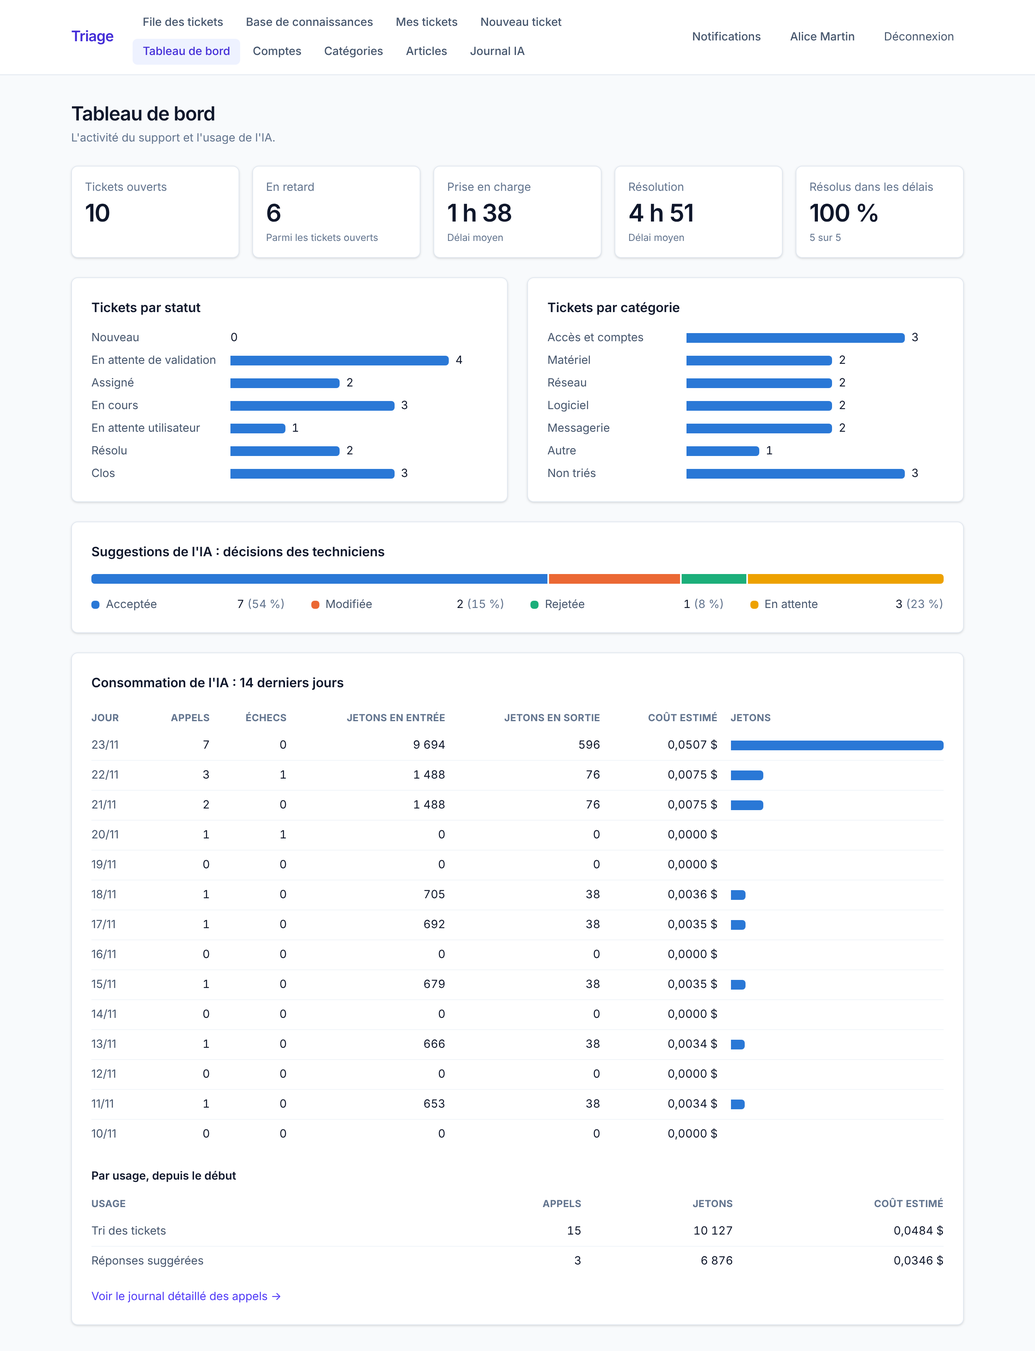
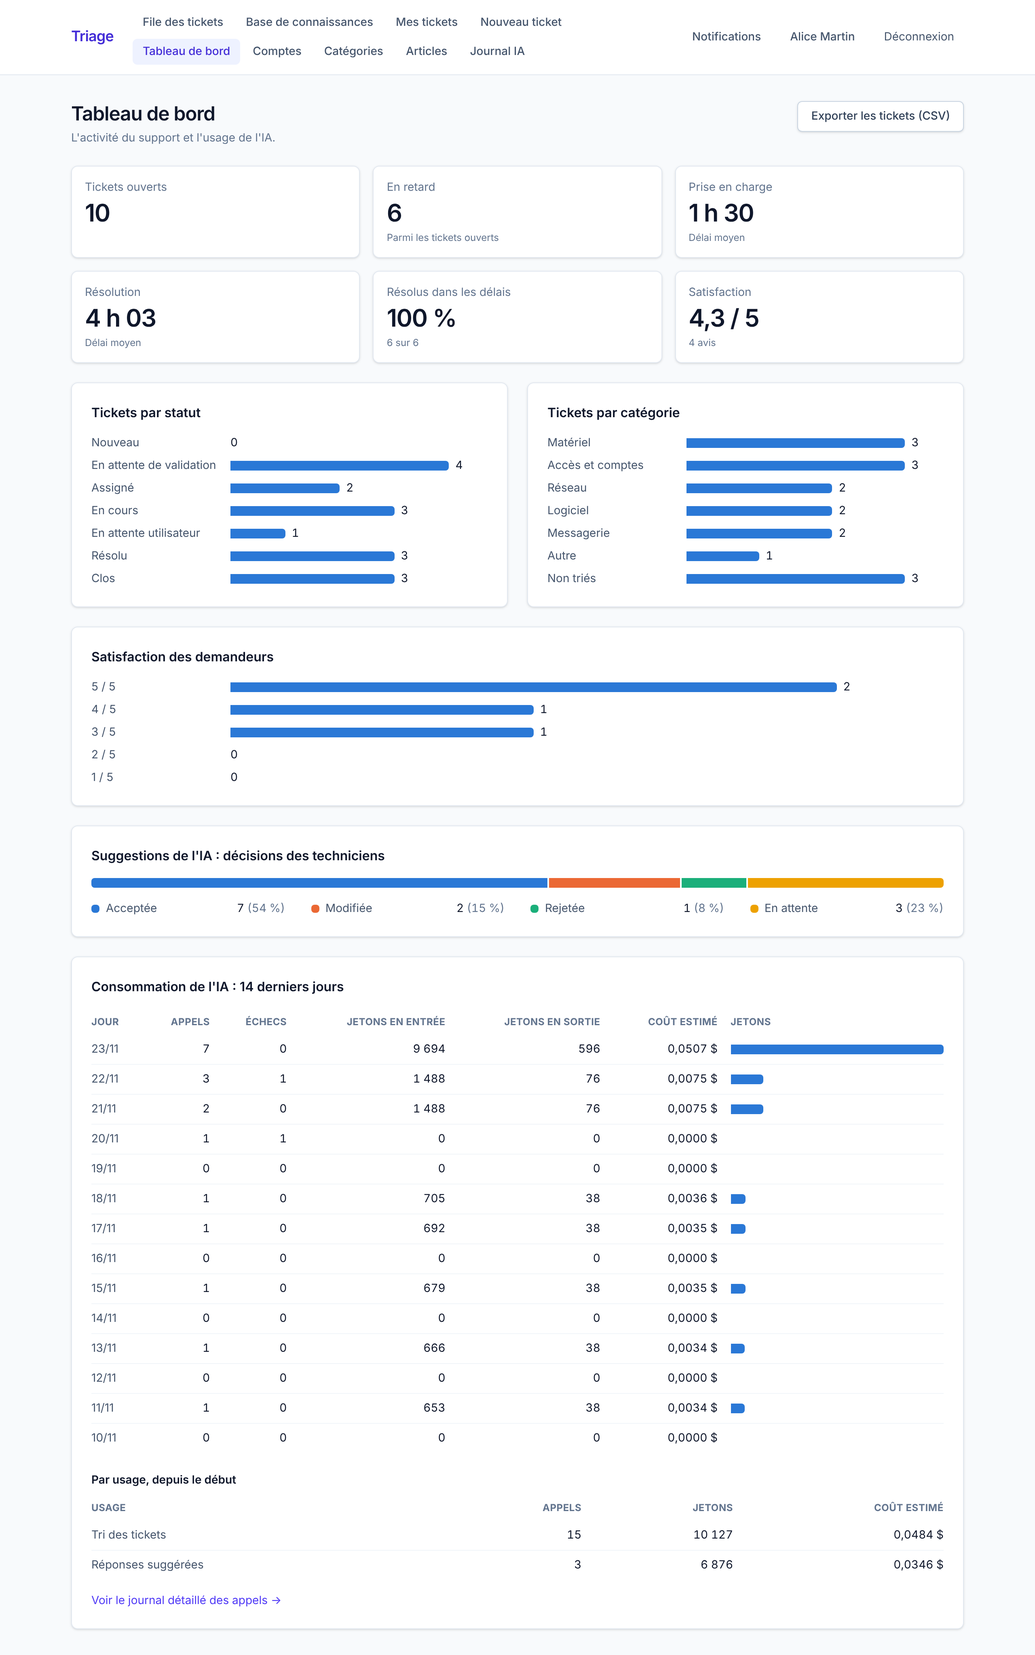
docs: feuille de route face aux helpdesks du marché, décisions D82 à D88
Données de démonstration : avis de satisfaction et articles du centre d'aide.

Claude-Session: https://claude.ai/code/session_011eE9uHckGhVbUfGKYBepd5

diff --git a/database/seeders/DemoSeeder.php b/database/seeders/DemoSeeder.php
@@ -355,7 +355,7 @@ class DemoSeeder extends Seeder
     }
 
     /**
-     * @param  array{status: TicketStatus, messages?: list<array{0: string, 1: string, 2?: bool}>, reopened?: bool}  $scenario
+     * @param  array{status: TicketStatus, messages?: list<array{0: string, 1: string, 2?: bool}>, reopened?: bool, rating?: array{0: int, 1: string|null}}  $scenario
      * @param  array<string, User>  $users
      * @param  callable(): void  $tick
      */
@@ -400,10 +400,19 @@ class DemoSeeder extends Seeder
             $tick();
             $this->workflow->transition($ticket, TicketStatus::Closed, $requester);
         }
+
+        // The requester gave their opinion on the resolution.
+        if (isset($scenario['rating'])) {
+            $ticket->forceFill([
+                'satisfaction_score' => $scenario['rating'][0],
+                'satisfaction_comment' => $scenario['rating'][1],
+                'rated_at' => now(),
+            ])->save();
+        }
     }
 
     /**
-     * @return list<array{title: string, description: string, requester: string, days_ago: int, status: TicketStatus, category?: string, priority?: TicketPriority, technician?: string, messages?: list<array{0: string, 1: string, 2?: bool}>, reopened?: bool, ai?: array{0: string, 1: TicketPriority, 2: float}, ai_rejected?: bool, ai_reply?: array{0: string, 1: string}, ai_no_article?: bool}>
+     * @return list<array{title: string, description: string, requester: string, days_ago: int, status: TicketStatus, category?: string, priority?: TicketPriority, technician?: string, messages?: list<array{0: string, 1: string, 2?: bool}>, reopened?: bool, ai?: array{0: string, 1: TicketPriority, 2: float}, ai_rejected?: bool, ai_reply?: array{0: string, 1: string}, ai_no_article?: bool, rating?: array{0: int, 1: string|null}}>
      */
     private function scenarios(): array
     {
@@ -412,6 +421,7 @@ class DemoSeeder extends Seeder
                 'title' => 'Souris sans fil qui se déconnecte toutes les cinq minutes',
                 'description' => "Ma souris sans fil perd la connexion plusieurs fois par heure. J'ai déjà changé les piles.",
                 'requester' => 'user3', 'days_ago' => 12, 'status' => TicketStatus::Closed,
+                'rating' => [5, 'Rapide et efficace, merci.'],
                 'category' => 'materiel', 'priority' => TicketPriority::Low, 'technician' => 'tech2',
                 'ai' => ['materiel', TicketPriority::Low, 0.95],
                 'messages' => [
@@ -423,6 +433,7 @@ class DemoSeeder extends Seeder
                 'title' => 'Question sur la sauvegarde de mes documents',
                 'description' => 'Je voudrais savoir si les fichiers enregistrés sur mon bureau sont sauvegardés, ou seulement ceux du lecteur réseau.',
                 'requester' => 'user5', 'days_ago' => 10, 'status' => TicketStatus::Closed,
+                'rating' => [4, null],
                 'category' => 'autre', 'priority' => TicketPriority::Low, 'technician' => 'tech1', 'reopened' => true,
                 'ai' => ['autre', TicketPriority::Low, 0.81],
                 'messages' => [
@@ -434,6 +445,7 @@ class DemoSeeder extends Seeder
                 'title' => 'Écran externe non détecté sur la station d\'accueil',
                 'description' => "Depuis lundi, mon deuxième écran reste noir quand je branche mon portable sur la station d'accueil.",
                 'requester' => 'user2', 'days_ago' => 8, 'status' => TicketStatus::Closed,
+                'rating' => [3, 'Résolu, mais il a fallu relancer.'],
                 'category' => 'materiel', 'priority' => TicketPriority::Normal, 'technician' => 'tech1',
                 // The AI hesitated: the technician corrected the category.
                 'ai' => ['logiciel', TicketPriority::Normal, 0.62],

diff --git a/docs/FEUILLE_DE_ROUTE.md b/docs/FEUILLE_DE_ROUTE.md
@@ -1,0 +1,86 @@
+# Feuille de route : Triage face aux helpdesks du marché
+
+Ce document compare Triage aux logiciels du même type, classe les améliorations par intérêt pour
+une entreprise, et dit ce qui a été fait et ce qui reste. Il sert à répondre à la question
+« pourquoi une PME choisirait-elle cet outil ? ».
+
+## Ce qu'une entreprise attend d'un helpdesk
+
+Les helpdesks les plus répandus (Zendesk, Freshdesk, Jira Service Management, GLPI, Zammad,
+osTicket) ont un socle commun. Une entreprise qui évalue un outil le compare à ce socle :
+
+| Attente | Pourquoi elle compte | Triage |
+|---|---|---|
+| Tickets, statuts, historique, notifications | Le métier de base | Présent depuis la phase 1 |
+| Rôles et droits | Séparer salariés, support, administration | Présent (Policies testées) |
+| Délais cibles par priorité (SLA) | S'engager sur un temps de réponse | Présent, en heures calendaires |
+| Tableau de bord | Piloter le support | Présent |
+| Base de connaissances interne | Capitaliser les solutions | Présente depuis la phase 3 |
+| **Libre-service pour les salariés** | Éviter les tickets qui ont déjà une réponse | **Ajouté** : centre d'aide et articles suggérés |
+| **Pièces jointes** | Une capture d'écran vaut dix messages | **Ajouté** |
+| **Enquête de satisfaction** | Mesurer la qualité, pas seulement la vitesse | **Ajouté** |
+| **Affectation à un collègue** | Répartir le travail, gérer les absences | **Ajouté** |
+| **Clôture automatique** | Ne pas laisser traîner les tickets résolus | **Ajouté** |
+| **Export des données** | Rapports, tableur, sortie de l'outil | **Ajouté** (CSV) |
+| Double authentification, journal de sécurité | Exigence des services informatiques | Présents (voir `SECURITE.md`) |
+| Conformité RGPD | Obligation légale en France | Présente (voir `RGPD.md`) |
+| Application mobile | Technicien en déplacement | Présente (Android) |
+| Connexion unique (SSO) | Un seul compte pour tous les outils | Non fait |
+| Tickets créés par e-mail | Le canal habituel des salariés | Non fait |
+| Réponses types | Gagner du temps sur les réponses répétitives | Non fait (l'IA propose un brouillon) |
+
+## Ce qui distingue Triage
+
+- **Le tri assisté par IA, validé par un humain.** L'IA propose une catégorie, une priorité et
+  un brouillon de réponse ; un technicien décide toujours. Le journal montre ce qu'elle coûte et
+  ce que les techniciens font de ses suggestions.
+- **Une IA mesurée, pas vantée.** La commande `triage:evaluate` compare l'IA à une méthode sans
+  IA, avec une marge d'erreur. Le premier résultat publié montre qu'un petit modèle local fait
+  moins bien que des mots-clés : c'est écrit tel quel.
+- **Les données peuvent rester dans l'entreprise.** Avec Ollama, rien ne sort. Avec un
+  fournisseur externe, les données personnelles sont masquées et les mots de passe ne sont
+  jamais stockés.
+- **Un outil qu'on installe chez soi.** Laravel et MySQL, sans dépendance à un service en ligne.
+
+## Les améliorations, classées
+
+Le classement suit une règle simple : ce qui réduit le plus le travail du support ou lève le
+plus gros frein à l'adoption passe en premier ; ce qui demande une infrastructure extérieure
+impossible à vérifier ici passe après.
+
+| Rang | Amélioration | Effet attendu | État |
+|---|---|---|---|
+| 1 | Centre d'aide et articles suggérés à la création d'un ticket | Moins de tickets : le salarié trouve la réponse avant d'écrire | Fait |
+| 2 | Pièces jointes | Tickets mieux décrits, moins d'allers-retours | Fait |
+| 3 | Enquête de satisfaction | Un indicateur de qualité pour la direction | Fait |
+| 4 | Affectation à un technicien choisi | Répartition du travail, relais pendant une absence | Fait |
+| 5 | Clôture automatique des tickets résolus | Une file propre, une purge RGPD qui suit | Fait |
+| 6 | Export CSV | Rapports libres, pas d'enfermement dans l'outil | Fait |
+| 7 | Connexion unique (Microsoft Entra, Google) | Adoption par les entreprises qui l'exigent | À faire |
+| 8 | Tickets créés par e-mail | Le salarié garde son habitude | À faire |
+| 9 | Alerte avant le dépassement d'un délai | Agir avant le retard, pas après | À faire |
+| 10 | Délais en heures ouvrées | Des engagements réalistes hors des nuits et week-ends | À faire |
+| 11 | Réponses types | Réponses répétitives en un clic | À faire |
+| 12 | Notification Teams ou Slack | Le support voit les tickets critiques là où il travaille | À faire |
+| 13 | Pièces jointes dans l'application mobile, analyse antivirus des fichiers | Parité mobile, défense supplémentaire | À faire |
+
+## Pourquoi les points 7 et 8 ne sont pas faits
+
+- **Connexion unique.** Elle demande un fournisseur d'identité réel pour être testée de bout en
+  bout. Sans lui, le code ne pourrait être vérifié qu'avec des réponses simulées : pour une porte
+  d'entrée de l'application, ce n'est pas suffisant. Le point d'accroche existe déjà :
+  `CredentialChecker` est le seul endroit qui décide d'une connexion.
+- **Tickets par e-mail.** Il faut une boîte aux lettres et un service de réception. Le point
+  d'accroche existe aussi : l'action `CreateTicket` crée un ticket d'où qu'il vienne.
+
+## La sécurité des nouvelles fonctions
+
+Chaque ajout a été pensé avec son risque propre ; le détail est dans `SECURITE.md`.
+
+| Fonction | Risque | Réponse |
+|---|---|---|
+| Centre d'aide | Une procédure interne montrée aux salariés | Article interne par défaut ; 404 identique pour un article caché |
+| Pièces jointes | Dépôt d'un fichier dangereux, lecture par un tiers | Types lus dans le contenu, disque privé, nom aléatoire, téléchargement autorisé par la Policy |
+| Export CSV | Formule exécutée à l'ouverture dans un tableur | Cellules neutralisées ; export journalisé et réservé à l'administrateur |
+| Avis du demandeur | Texte libre conservé | Mot de passe retiré, commentaire effacé par la purge |
+| Affectation | Ticket donné à un compte sans droit | Seulement à un technicien actif, par le support, tracé dans l'historique |

diff --git a/README.md b/README.md
@@ -17,6 +17,8 @@ une priorité et une réponse ; **un technicien valide toujours avant toute acti
 | 4 | Évaluation de l'IA, modèle local, tableau de bord, délais cibles, purge RGPD | Terminée |
 | 5a | API REST du technicien (Sanctum) | Terminée |
 | 5b | Application Android du technicien (dossier `mobile/`) | Terminée, testée sur émulateur par la CI |
+| 6 | Sécurité : audit et 16 correctifs | Terminée |
+| 7 | Pour les entreprises : centre d'aide, pièces jointes, satisfaction, affectation, export | Terminée |
 
 ## Documentation
 
@@ -25,6 +27,7 @@ une priorité et une réponse ; **un technicien valide toujours avant toute acti
 - [Journal des décisions techniques](docs/DECISIONS.md)
 - [Protection des données personnelles (RGPD)](docs/RGPD.md)
 - [Sécurité : audit, corrections et limites](docs/SECURITE.md)
+- [Feuille de route : Triage face aux helpdesks du marché](docs/FEUILLE_DE_ROUTE.md)
 - [API REST de l'application mobile](docs/API.md)
 - [Application Android du technicien](mobile/README.md)
 - [Évaluations du tri par IA](docs/evaluations/README.md)
@@ -194,11 +197,31 @@ Avec `AI_PROVIDER=ollama`, le modèle tourne sur votre machine : aucune donnée 
 appel ne coûte rien. Installez [Ollama](https://ollama.com), téléchargez un modèle
 (`ollama pull llama3.2`), puis réglez `OLLAMA_MODEL` dans `.env`.
 
+## Centre d'aide, pièces jointes et satisfaction
+
+Ces fonctions viennent de la comparaison avec les helpdesks du marché
+([docs/FEUILLE_DE_ROUTE.md](docs/FEUILLE_DE_ROUTE.md)).
+
+- **Centre d'aide.** Un administrateur ouvre un article à tous les salariés. Ils le lisent dans
+  le centre d'aide, et il leur est suggéré pendant qu'ils saisissent le titre d'un ticket. Un
+  article reste interne tant que personne n'en décide autrement.
+- **Pièces jointes.** Captures d'écran, PDF et fichiers texte (3 fichiers de 5 Mo au plus par
+  envoi), à la création du ticket ou ensuite. Les fichiers sont stockés hors du dossier public.
+- **Satisfaction.** Quand son ticket est résolu, le demandeur donne une note de 1 à 5 et un
+  commentaire facultatif.
+- **Affectation.** Un administrateur ou un technicien donne un ticket trié à un collègue.
+- **Clôture automatique.** Un ticket résolu depuis 7 jours sans réaction est clos
+  (`TICKET_AUTO_CLOSE_DAYS`).
+
+![Articles suggérés pendant la saisie d'un ticket](docs/captures/centre-aide-suggestions.png)
+
 ## Tableau de bord
 
 L'administrateur dispose d'un tableau de bord : tickets par statut et par catégorie, délais
-moyens, tickets en retard par rapport aux délais cibles (`config/tickets.php`), décisions des
-techniciens sur les suggestions de l'IA, consommation de l'IA par jour.
+moyens, tickets en retard par rapport aux délais cibles (`config/tickets.php`), satisfaction
+des demandeurs, décisions des techniciens sur les suggestions de l'IA, consommation de l'IA par
+jour. Le bouton « Exporter les tickets (CSV) » produit un fichier lisible par un tableur, sans
+les descriptions ni les messages.
 
 ![Tableau de bord](docs/captures/tableau-de-bord.png)
 
@@ -251,8 +274,9 @@ php artisan queue:work
 
 Sans ce processus, l'application fonctionne mais les notifications restent en attente.
 
-Le planificateur de Laravel lance deux tâches : il envoie en tri manuel les tickets que l'IA
-n'a pas traités à temps (par exemple si le worker est arrêté), et il purge chaque nuit les
+Le planificateur de Laravel lance quatre tâches : il envoie en tri manuel les tickets que l'IA
+n'a pas traités à temps (par exemple si le worker est arrêté), il clôt les tickets résolus
+depuis plusieurs jours, il supprime les jetons mobiles expirés et il purge chaque nuit les
 tickets trop anciens. En production, une seule ligne de cron suffit ; en développement,
 lancez-le à la main :
 

diff --git a/docs/SECURITE.md b/docs/SECURITE.md
@@ -58,6 +58,25 @@ Variables à renseigner dans `.env` :
 | 15 | Actions GitHub référencées par étiquette | Chaque action est épinglée sur un commit ; Dependabot propose les mises à jour | `.github/workflows/ci.yml` | La CI elle-même |
 | 16 | Ollama en HTTP par défaut | HTTP refusé vers une autre machine, sauf `OLLAMA_ALLOW_INSECURE=true` | `OllamaProvider` | `DeploymentCheckTest` |
 
+## Les fonctions ajoutées ensuite
+
+Le centre d'aide, les pièces jointes, l'avis du demandeur, l'affectation et l'export CSV sont
+arrivés après l'audit. Chacun a été écrit avec son risque propre en tête.
+
+| Fonction | Risque | Protection | Test |
+|---|---|---|---|
+| Centre d'aide | Une procédure interne lue par un salarié | Article interne par défaut ; recherche et suggestions limitées aux articles publics ; même 404 pour un article caché | `HelpCenterTest` |
+| Pièces jointes | Dépôt d'un script, d'une page HTML, d'une image SVG piégée | Types lus dans le contenu ; l'extension doit correspondre ; 5 Mo, 3 fichiers par envoi, 10 par ticket | `TicketAttachmentTest` |
+| Pièces jointes | Lecture par quelqu'un qui n'a pas accès au ticket | Disque privé sans route publique ; téléchargement par un contrôleur qui applique la Policy ; pièce liée au ticket de l'adresse | `TicketAttachmentTest` |
+| Pièces jointes | Fichier affiché ou exécuté par le navigateur | Toujours envoyé en téléchargement, avec `nosniff` ; nom de stockage aléatoire | `TicketAttachmentTest` |
+| Export CSV | Formule exécutée dans le tableur de l'administrateur | Cellules commençant par `=`, `+`, `-`, `@` neutralisées ; export réservé à l'administrateur, limité et journalisé | `TicketExportTest` |
+| Avis du demandeur | Mot de passe ou donnée personnelle dans le commentaire | Mot de passe retiré à l'enregistrement ; commentaire effacé par la purge | `TicketSatisfactionTest` |
+| Affectation | Ticket donné à un compte qui ne devrait pas le traiter | Seulement à un technicien actif ; réservé au support ; auteur de la décision dans l'historique | `TicketAssignmentTest` |
+
+Deux limites : les pièces jointes ne passent pas par un antivirus (elles ne sont jamais exécutées
+par l'application, mais un technicien peut ouvrir un PDF piégé sur son poste), et elles ne sont
+pas accessibles depuis l'application mobile.
+
 ## Le journal de sécurité
 
 `storage/logs/audit-AAAA-MM-JJ.log`, conservé 180 jours. Il reçoit :
@@ -66,7 +85,8 @@ Variables à renseigner dans `.env` :
 - les tentatives échouées (adresse e-mail essayée, jamais le mot de passe) ;
 - les connexions de l'application mobile et les codes de double authentification refusés ;
 - les réinitialisations de mot de passe ;
-- les comptes créés ou modifiés par un administrateur : qui, quel compte, quels champs.
+- les comptes créés ou modifiés par un administrateur : qui, quel compte, quels champs ;
+- les exports CSV des tickets : qui, combien de tickets.
 
 Chaque ligne porte l'adresse IP. Le journal n'a pas d'écran dans l'application : il se lit sur
 le serveur.

diff --git a/docs/DECISIONS.md b/docs/DECISIONS.md
@@ -555,3 +555,52 @@ En HTTP vers une autre machine, le contenu des tickets traverserait le réseau e
 `OllamaProvider` le refuse, sauf si `OLLAMA_ALLOW_INSECURE=true` dit que le réseau est déjà
 chiffré. Un refus par défaut vaut mieux qu'un avertissement que personne ne lit.
 
+## Améliorations pour les entreprises
+
+La comparaison avec les helpdesks du marché est dans `FEUILLE_DE_ROUTE.md`.
+
+### D82 — Un centre d'aide, interne par défaut
+
+Le libre-service est ce qui réduit le plus le nombre de tickets : le salarié trouve la réponse
+avant d'écrire. Un article n'y entre que si un administrateur l'ouvre aux salariés ; par défaut
+il reste interne. Pour un salarié, un article interne renvoie la même erreur 404 qu'un article
+qui n'existe pas : l'adresse ne révèle rien.
+
+### D83 — Des articles suggérés pendant la saisie
+
+Le champ « Titre » du nouveau ticket est un petit composant Livewire qui cherche des articles
+du centre d'aide. Il réutilise la recherche de la base de connaissances, limitée aux articles
+publics, même quand un technicien tape : une procédure interne n'est jamais suggérée ici.
+
+### D84 — Des pièces jointes, mais peu de types
+
+Seuls les types utiles et inoffensifs sont acceptés (images, PDF, texte). Le type est lu dans
+le contenu du fichier et doit correspondre à son extension. Les fichiers vont sur un disque
+privé, sous un nom aléatoire, et ne sortent que par un contrôleur qui vérifie le droit de lire
+le ticket, toujours en téléchargement. Aucun fichier n'est donc jamais exécuté ni affiché.
+
+### D85 — La satisfaction en une question
+
+Une note de 1 à 5 et un commentaire facultatif, une seule fois, quand le ticket est résolu ou
+clos. Deux colonnes sur le ticket suffisent : une table à part n'apporterait rien pour une
+relation un pour un. La purge efface le commentaire et garde la note pour les statistiques.
+
+### D86 — Donner un ticket à un collègue
+
+Un technicien ne pouvait que prendre un ticket pour lui. Le support (techniciens et
+administrateurs) peut maintenant le donner à un technicien actif, qui en est notifié.
+L'historique enregistre qui a décidé, pas seulement qui a reçu le ticket.
+
+### D87 — Un export CSV sans formule
+
+L'export sert aux rapports et évite d'enfermer les données dans l'outil. Il ne contient ni
+description ni message. Une cellule qui commence par `=`, `+`, `-` ou `@` est précédée d'une
+apostrophe : sans cela, un ticket intitulé comme une formule s'exécuterait dans le tableur de
+l'administrateur. L'export est journalisé.
+
+### D88 — La clôture automatique
+
+Un ticket résolu que son demandeur ne rouvre pas est clos au bout de 7 jours, par le système.
+La file reste lisible et la purge RGPD part d'une date claire. Le demandeur garde 7 jours pour
+rouvrir, et peut encore donner son avis après la clôture.
+

diff --git a/docs/RGPD.md b/docs/RGPD.md
@@ -23,6 +23,8 @@ entraînement d'un modèle d'IA par l'application.
 | Secret de double authentification (chiffré) | table `users` | Authentification renforcée |
 | Titre et description des tickets | table `tickets` | Traiter la demande |
 | Messages du fil de discussion | table `ticket_messages` | Échanger avec le demandeur |
+| Pièces jointes (captures d'écran, PDF, texte) | table `ticket_attachments` et disque privé | Décrire le problème |
+| Note de satisfaction et commentaire | table `tickets` | Mesurer la qualité du support |
 | Historique des tickets (qui a fait quoi, quand) | table `ticket_events` | Traçabilité |
 | Adresse IP et navigateur de la session | table `sessions` | Sécurité de la connexion |
 
@@ -34,7 +36,8 @@ numéro de téléphone) sans que l'application le demande. Le formulaire rappell
 
 - La table `notifications` ne contient que le numéro du ticket et une phrase générique.
 - La table `ai_logs` n'a aucune colonne de texte : elle ne peut contenir ni prompt ni réponse.
-- Il n'y a pas de pièces jointes.
+- Les pièces jointes ne sont jamais envoyées à l'IA. Une capture d'écran peut montrer des données
+  personnelles : elle est supprimée du disque avec le contenu du ticket, à la purge.
 
 ## 3. Envoi de données à un fournisseur d'IA
 
@@ -68,8 +71,8 @@ procédures et ne doivent pas contenir de données personnelles.
 
 | Donnée | Durée | Mécanisme |
 |---|---|---|
-| Contenu d'un ticket clos ou résolu (titre, description, messages, brouillons de l'IA) | 24 mois après la clôture, ou après la résolution si le ticket n'a jamais été clos | Commande planifiée `triage:purge-old-tickets`, chaque nuit |
-| Statistiques d'un ticket (catégorie, priorité, dates, historique) | Sans limite, sans contenu | Conservées après la purge : elles n'identifient plus personne |
+| Contenu d'un ticket clos ou résolu (titre, description, messages, pièces jointes, commentaire de satisfaction, brouillons de l'IA) | 24 mois après la clôture, ou après la résolution si le ticket n'a jamais été clos | Commande planifiée `triage:purge-old-tickets`, chaque nuit |
+| Statistiques d'un ticket (catégorie, priorité, dates, historique, note de satisfaction) | Sans limite, sans contenu | Conservées après la purge : elles n'identifient plus personne |
 | Compte d'un salarié parti | Désactivé au départ, anonymisé sur demande | Écran d'administration, puis `triage:anonymize-user` |
 | Sessions | 2 heures d'inactivité | Configuration de Laravel |
 | Journal de l'IA | Sans limite | Ne contient aucune donnée personnelle |

diff --git a/docs/MODELE_DONNEES.md b/docs/MODELE_DONNEES.md
@@ -268,3 +268,26 @@ Une seule colonne s'ajoute : `users.must_change_password`. Elle vaut vrai tant q
 passe est celui qu'un administrateur a choisi ; l'utilisateur doit alors le remplacer avant de
 pouvoir utiliser l'application. Le journal de sécurité n'est pas une table : c'est un fichier
 (`storage/logs/audit-*.log`), décrit dans `SECURITE.md`.
+
+## 11. Améliorations pour les entreprises
+
+```mermaid
+erDiagram
+    TICKET ||--o{ TICKET_ATTACHMENT : "porte"
+    USER |o--o{ TICKET_ATTACHMENT : "dépose"
+
+    TICKET_ATTACHMENT {
+        int id PK
+        string original_name
+        string path
+        string mime_type
+        int size
+    }
+```
+
+- **ticket_attachments** (id PK, #ticket_id, #user_id, original_name, path, mime_type, size,
+  created_at, updated_at). `path` est un nom aléatoire sur le disque privé ; `original_name`
+  n'est qu'affiché.
+- **tickets** reçoit `satisfaction_score` (1 à 5), `satisfaction_comment` et `rated_at`.
+- **kb_articles** reçoit `is_public` : vrai quand l'article est ouvert à tous les salariés dans le
+  centre d'aide. Faux par défaut.
